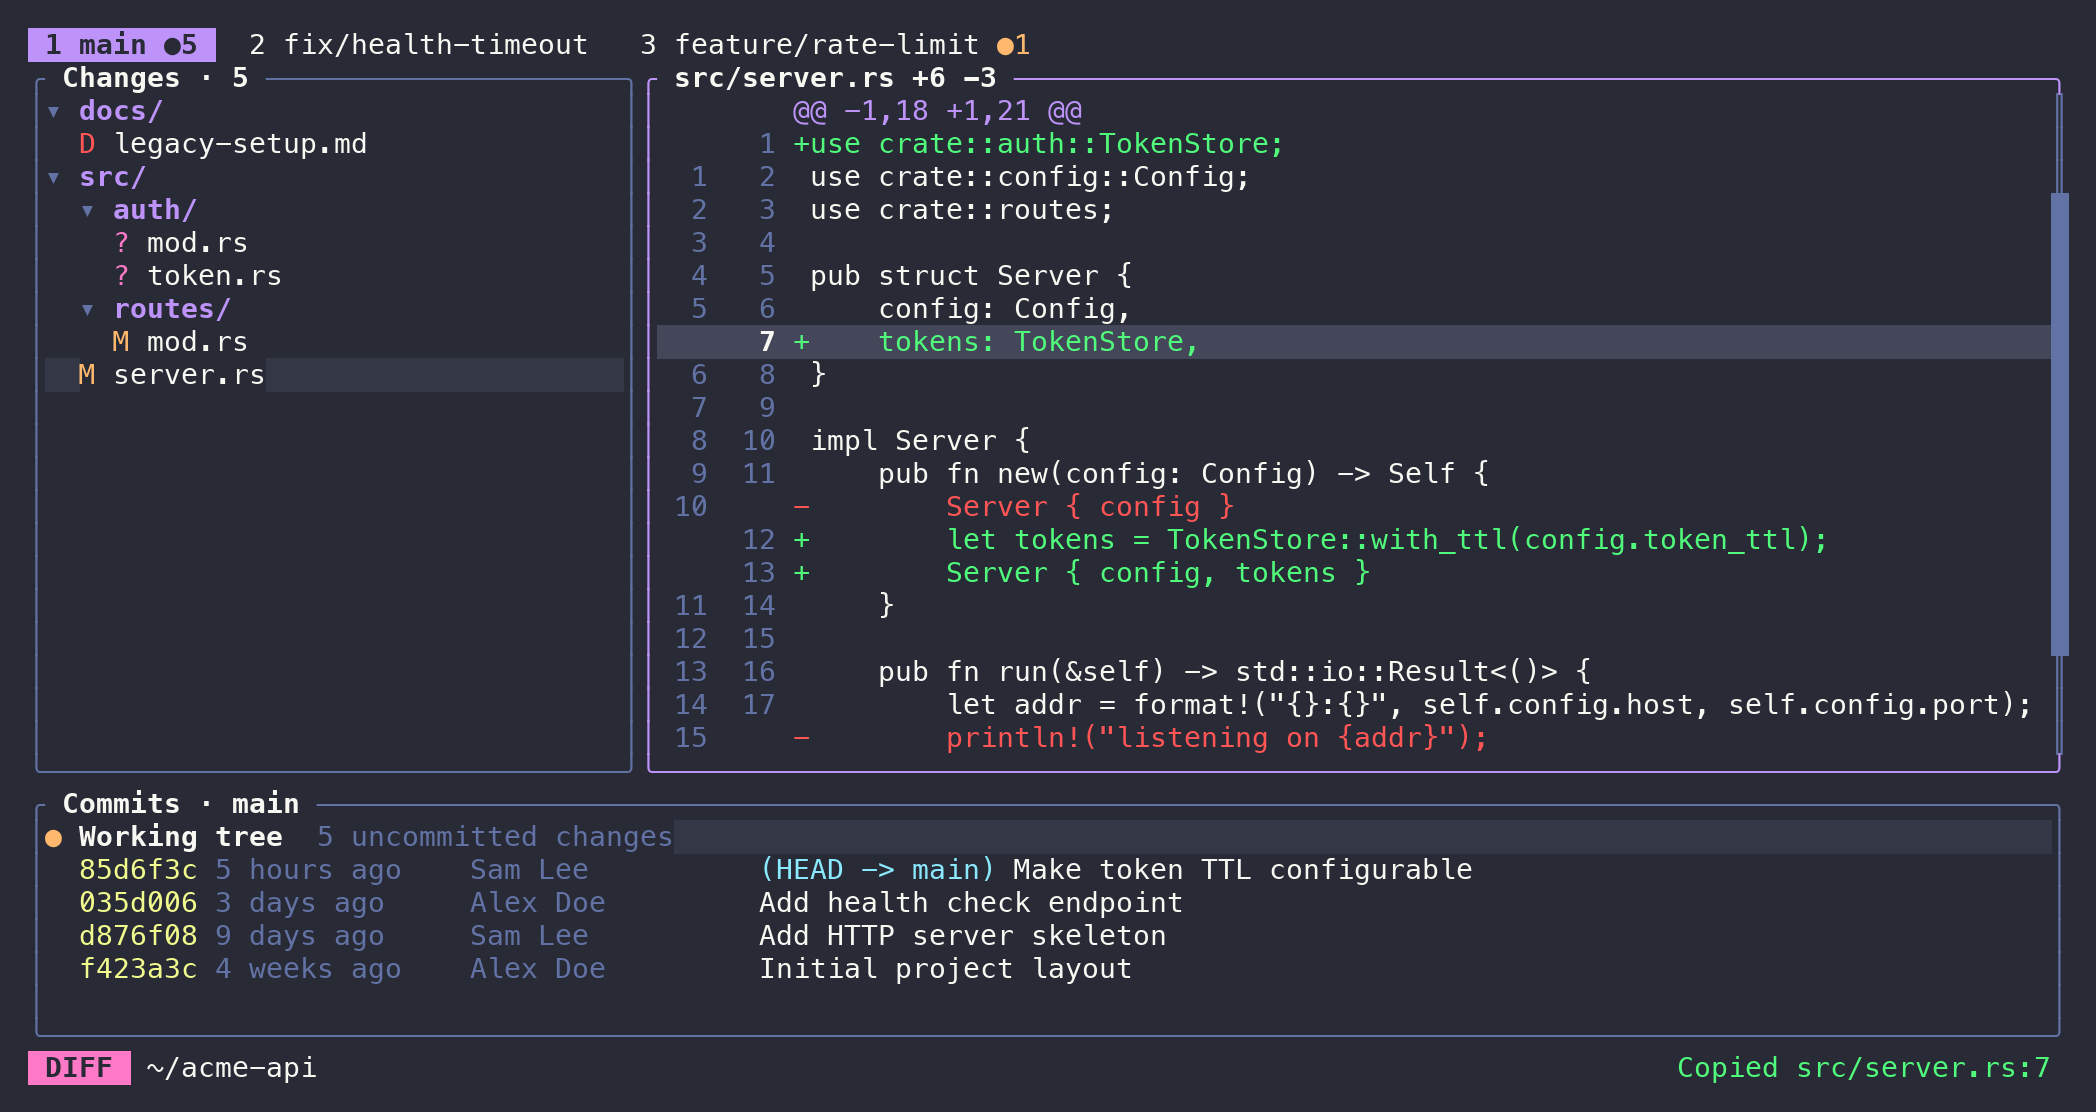
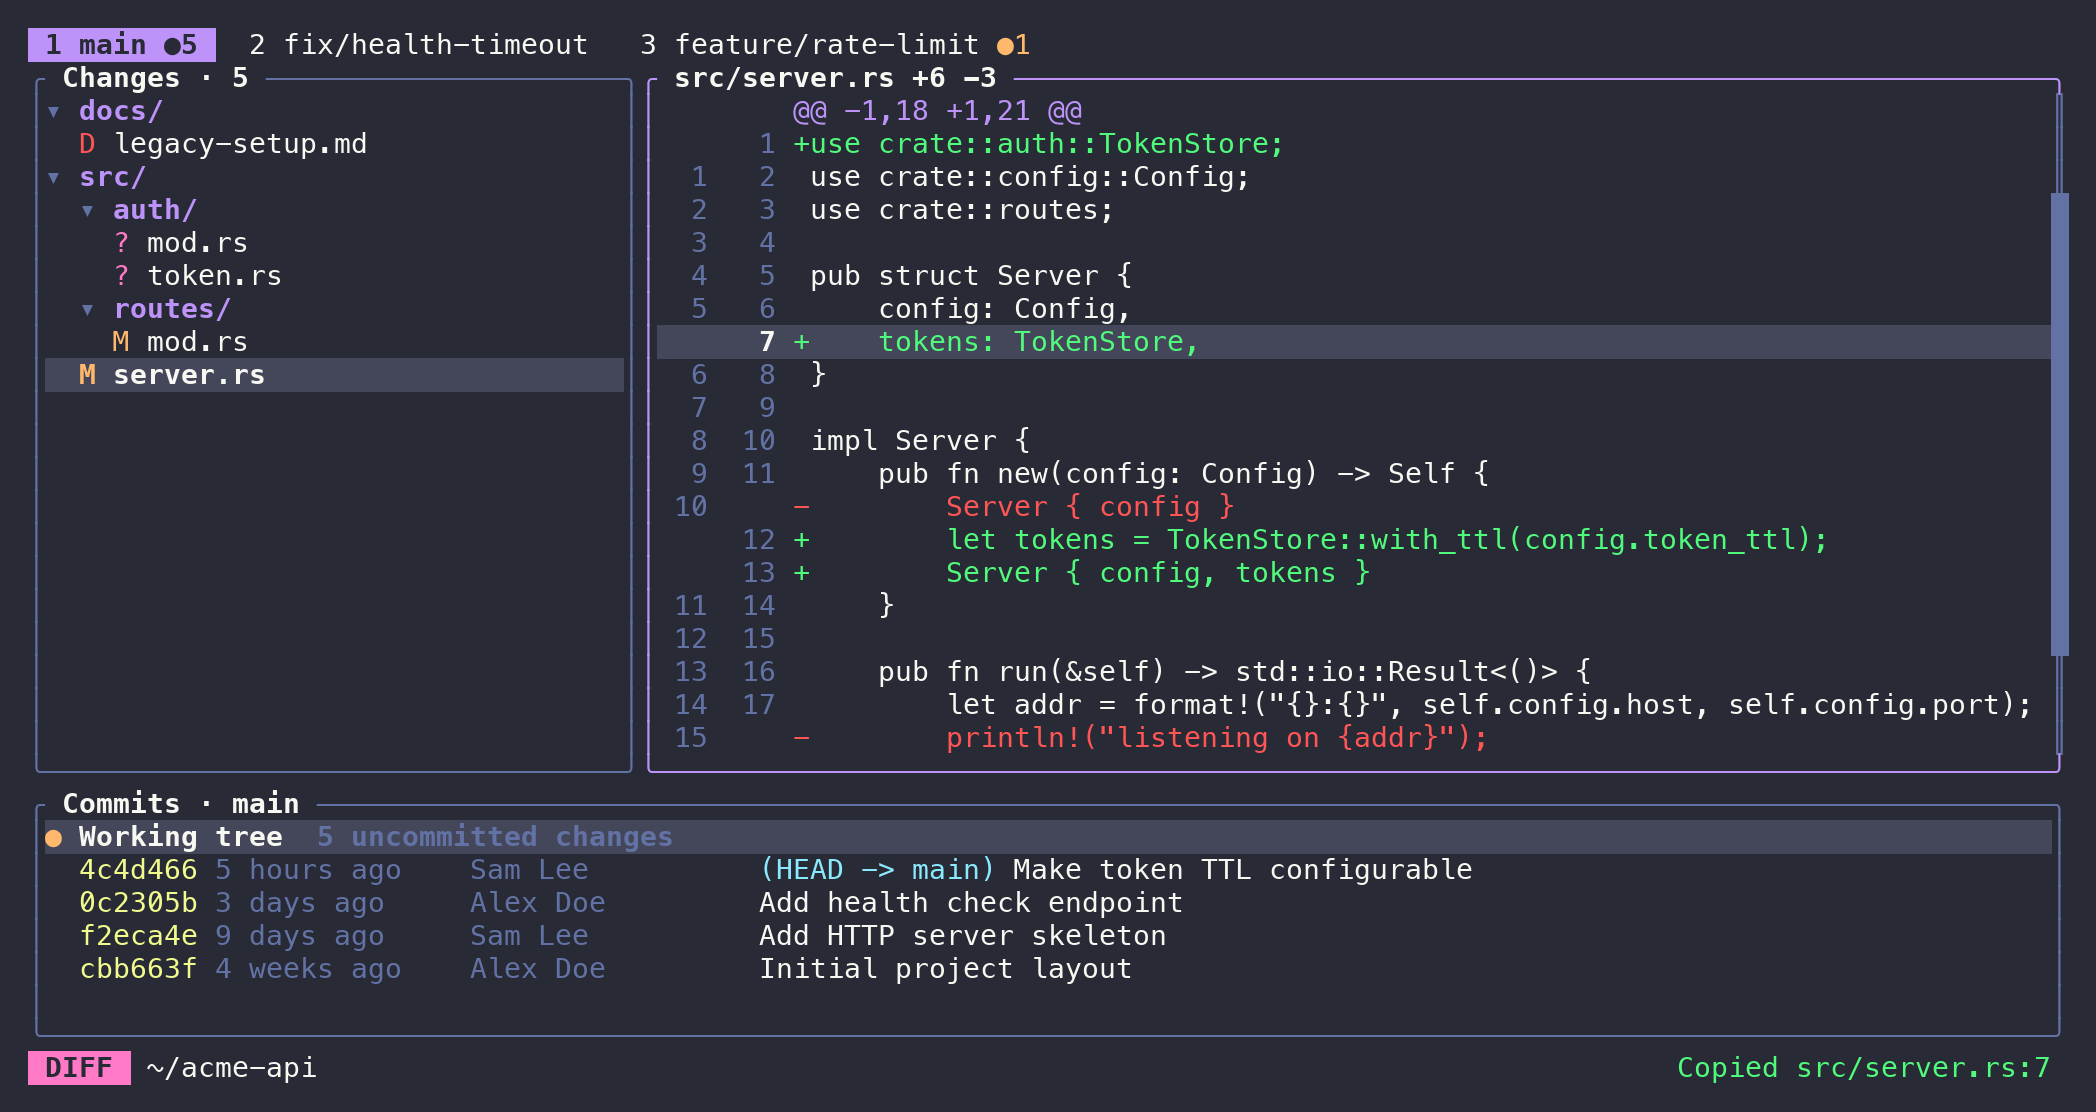
feat: highlight selected commit row and keep highlights full-width in all panes

Changed region(s): [[0.0, 0.7338, 0.3411, 0.8867], [0.031, 0.3058, 0.124, 0.3669]]

diff --git a/src/ui.rs b/src/ui.rs
@@ -102,6 +102,17 @@ fn pane_block<'a>(title: String, focused: bool, theme: &Theme) -> Block<'a> {
         .title(Span::styled(title, theme.title))
 }
 
+/// Patches `style` onto every span: span styles may carry their own bg
+/// (e.g. Dracula), which would otherwise mask a line-level highlight.
+fn patch_row(spans: Vec<Span<'_>>, style: Style) -> Line<'_> {
+    Line::from(
+        spans
+            .into_iter()
+            .map(|s| Span::styled(s.content, s.style.patch(style)))
+            .collect::<Vec<_>>(),
+    )
+}
+
 fn cursor_style(focused: bool, theme: &Theme) -> Style {
     if focused {
         theme.cursor
@@ -256,11 +267,11 @@ fn draw_tree(f: &mut Frame, app: &mut App, area: Rect) {
                     }
                 }
             }
-            let line = Line::from(fit_spans(spans, w));
+            let spans = fit_spans(spans, w);
             if i == st.tree_cursor {
-                line.style(cursor_style(focused, &theme))
+                patch_row(spans, cursor_style(focused, &theme))
             } else {
-                line
+                Line::from(spans)
             }
         })
         .collect();
@@ -321,11 +332,7 @@ fn draw_diff(f: &mut Frame, app: &mut App, area: Rect) {
     let gutter_w = num_w * 2 + 2;
     let text_w = (inner.width as usize).saturating_sub(gutter_w + 1);
     let num = |n: Option<u32>| n.map_or_else(|| " ".repeat(num_w), |n| format!("{n:>num_w$}"));
-    let sel_style = if focused {
-        theme.diff_sel
-    } else {
-        theme.diff_sel_inactive
-    };
+    let sel_style = theme.diff_sel;
 
     let lines: Vec<Line> = st
         .diff
@@ -359,12 +366,7 @@ fn draw_diff(f: &mut Frame, app: &mut App, area: Rect) {
             // Span styles carry their own bg (e.g. Dracula), so the selection
             // is patched onto the finished row (gutter and padding included).
             let row_style = if selected { sel_style } else { Style::new() };
-            Line::from(
-                spans
-                    .into_iter()
-                    .map(|s| Span::styled(s.content, s.style.patch(row_style)))
-                    .collect::<Vec<_>>(),
-            )
+            patch_row(spans, row_style)
         })
         .collect();
     f.render_widget(Paragraph::new(lines), inner);
@@ -439,11 +441,17 @@ fn draw_commits(f: &mut Frame, app: &mut App, area: Rect) {
                 s.push(Span::styled(c.subject.clone(), theme.base));
                 s
             };
-            let line = Line::from(fit_spans(spans, w));
+            let spans = fit_spans(spans, w);
+            let is_selected = match selected_sha {
+                None => i == 0,
+                Some(sha) => i > 0 && st.commits[i - 1].sha == sha,
+            };
             if i == st.commit_cursor {
-                line.style(cursor_style(focused, &theme))
+                patch_row(spans, cursor_style(focused, &theme))
+            } else if is_selected {
+                patch_row(spans, theme.diff_sel)
             } else {
-                line
+                Line::from(spans)
             }
         })
         .collect();

diff --git a/src/theme.rs b/src/theme.rs
@@ -25,7 +25,6 @@ pub struct Theme {
     pub cursor_inactive: Style,
     /// Selected diff line: background only, so diff colors stay intact.
     pub diff_sel: Style,
-    pub diff_sel_inactive: Style,
     /// Line-number gutter of the selected diff line (foreground only).
     pub gutter_sel: Style,
     pub gutter_sel_inactive: Style,
@@ -70,7 +69,6 @@ impl Theme {
             cursor_inactive: s.add_modifier(Modifier::BOLD | Modifier::UNDERLINED),
             // 256-color grays: reliably a little lighter than a dark background.
             diff_sel: Style::new().bg(Color::Indexed(238)),
-            diff_sel_inactive: Style::new().bg(Color::Indexed(236)),
             gutter_sel: Style::new().fg(Color::White).add_modifier(Modifier::BOLD),
             gutter_sel_inactive: Style::new().fg(Color::Gray),
             add: s.fg(Color::Green),
@@ -115,9 +113,8 @@ impl Theme {
             tab_active: s.fg(BG).bg(PURPLE).add_modifier(Modifier::BOLD),
             badge: s.fg(ORANGE),
             cursor: Style::new().bg(LINE).add_modifier(Modifier::BOLD),
-            cursor_inactive: Style::new().bg(Color::Rgb(0x34, 0x37, 0x46)),
+            cursor_inactive: Style::new().bg(LINE).add_modifier(Modifier::BOLD),
             diff_sel: Style::new().bg(LINE),
-            diff_sel_inactive: Style::new().bg(Color::Rgb(0x34, 0x37, 0x46)),
             gutter_sel: Style::new().fg(FG).add_modifier(Modifier::BOLD),
             gutter_sel_inactive: Style::new().fg(COMMENT),
             add: s.fg(GREEN),
